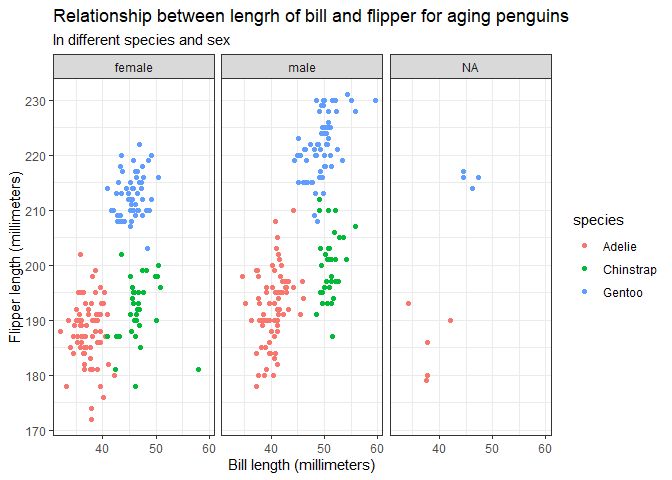
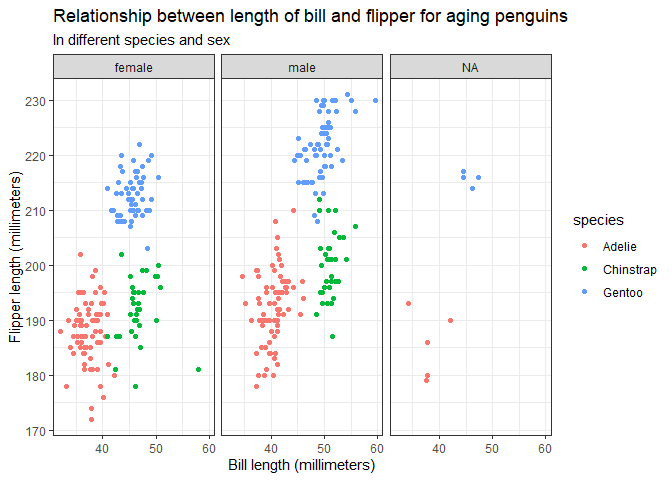
Add change of the code

Changed region(s): [[0.375, 0.0, 0.8438, 0.0625]]

diff --git a/pubh7462_hw1_ma000332.md b/pubh7462_hw1_ma000332.md
@@ -3,6 +3,8 @@
 Xiao Ma
 2022/2/2
 
+# Problem 2.1
+
 ``` r
 library(forcats)
 library(ggplot2)
@@ -28,6 +30,8 @@ tibble %>%
 
 ![](pubh7462_hw1_ma000332_files/figure-gfm/unnamed-chunk-1-1.png)<!-- -->
 
+# Problem 2.2
+
 ``` r
 penguin.df <- read_rds("./data/penguin.RDS")
 round(colMeans(penguin.df[,c(3,5)],na.rm = T),digits = 2)
@@ -35,12 +39,10 @@ round(sd(penguin.df$bill_length_mm,na.rm = T),digits = 2)
 round(sd(penguin.df$flipper_length_mm,na.rm = T),digits = 2)
 ```
 
-# Problem 2.2.1
-
 -   Each observation (row) details: there are 344 rows and 8 variables:
     -   species a factor denoting penguin species (Adélie, Chinstrap and
         Gentoo) island a factor denoting
-    -   island in Palmer Archipelago, Antarctica (Biscoe, Dream or
+    -   island: in Palmer Archipelago, Antarctica (Biscoe, Dream or
         Torgersen)
     -   bill\_length\_mm: a number denoting bill length (millimeters)
     -   bill\_depth\_mm: a number denoting bill depth (millimeters)
@@ -59,11 +61,9 @@ penguin.df %>%
   xlab("Bill length (millimeters)")+
   ylab("Flipper length (millimeters)")+
   theme_bw()+
-  labs(title = "Relationship between lengrh of bill and flipper for aging penguins",
+  labs(title = "Relationship between length of bill and flipper for aging penguins",
        subtitle = "In different species")
 ```
-
-    ## Warning: Removed 2 rows containing missing values (geom_point).
 
 ![](pubh7462_hw1_ma000332_files/figure-gfm/unnamed-chunk-3-1.png)<!-- -->
 
@@ -75,7 +75,7 @@ penguin.df %>%
   xlab("Bill length (millimeters)")+
   ylab("Flipper length (millimeters)")+
   theme_bw()+
-  labs(title = "Relationship between lengrh of bill and flipper for aging penguins",
+  labs(title = "Relationship between length of bill and flipper for aging penguins",
        subtitle = "In different species and sex")
 ```
 
